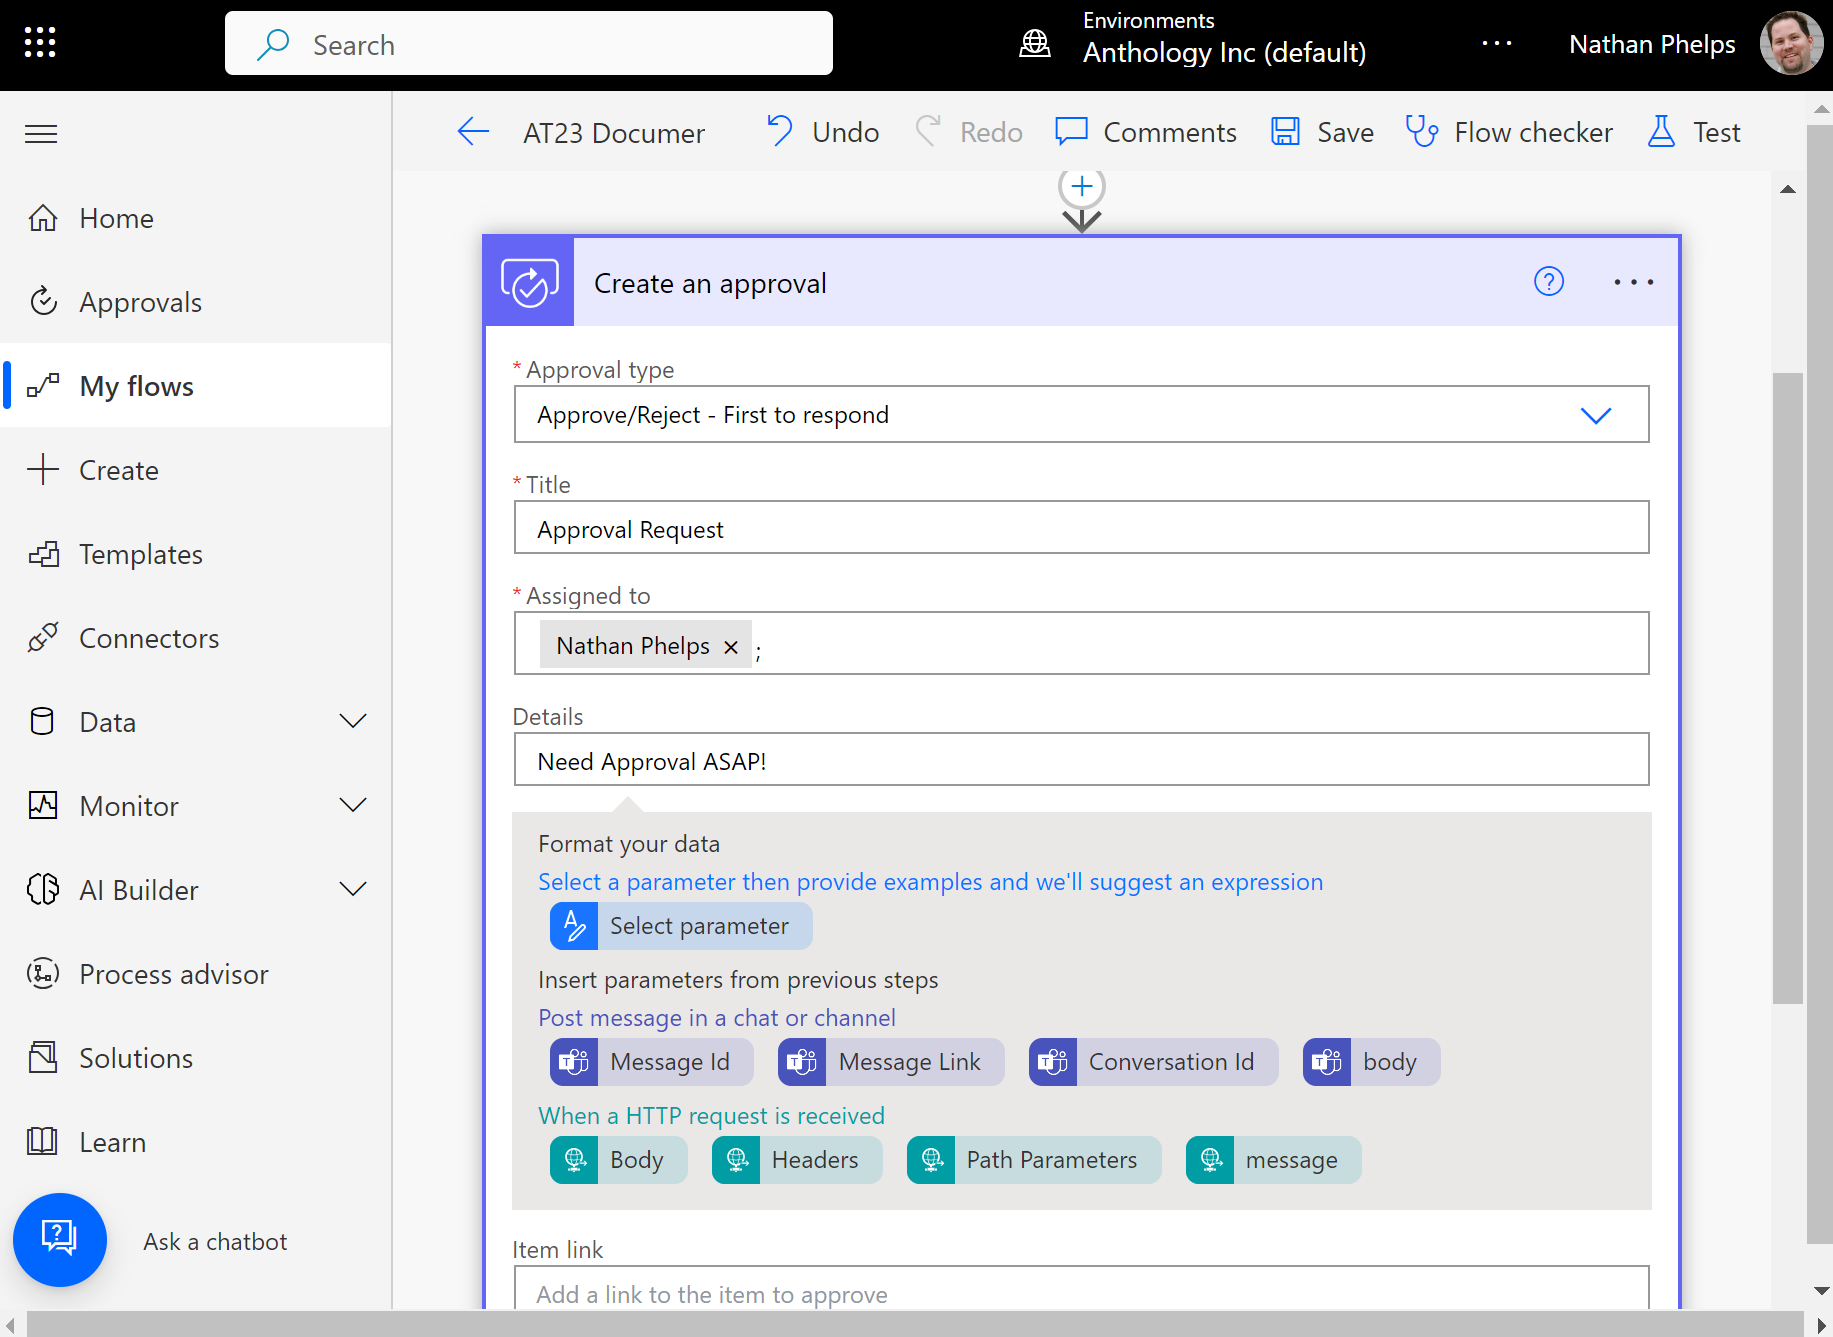
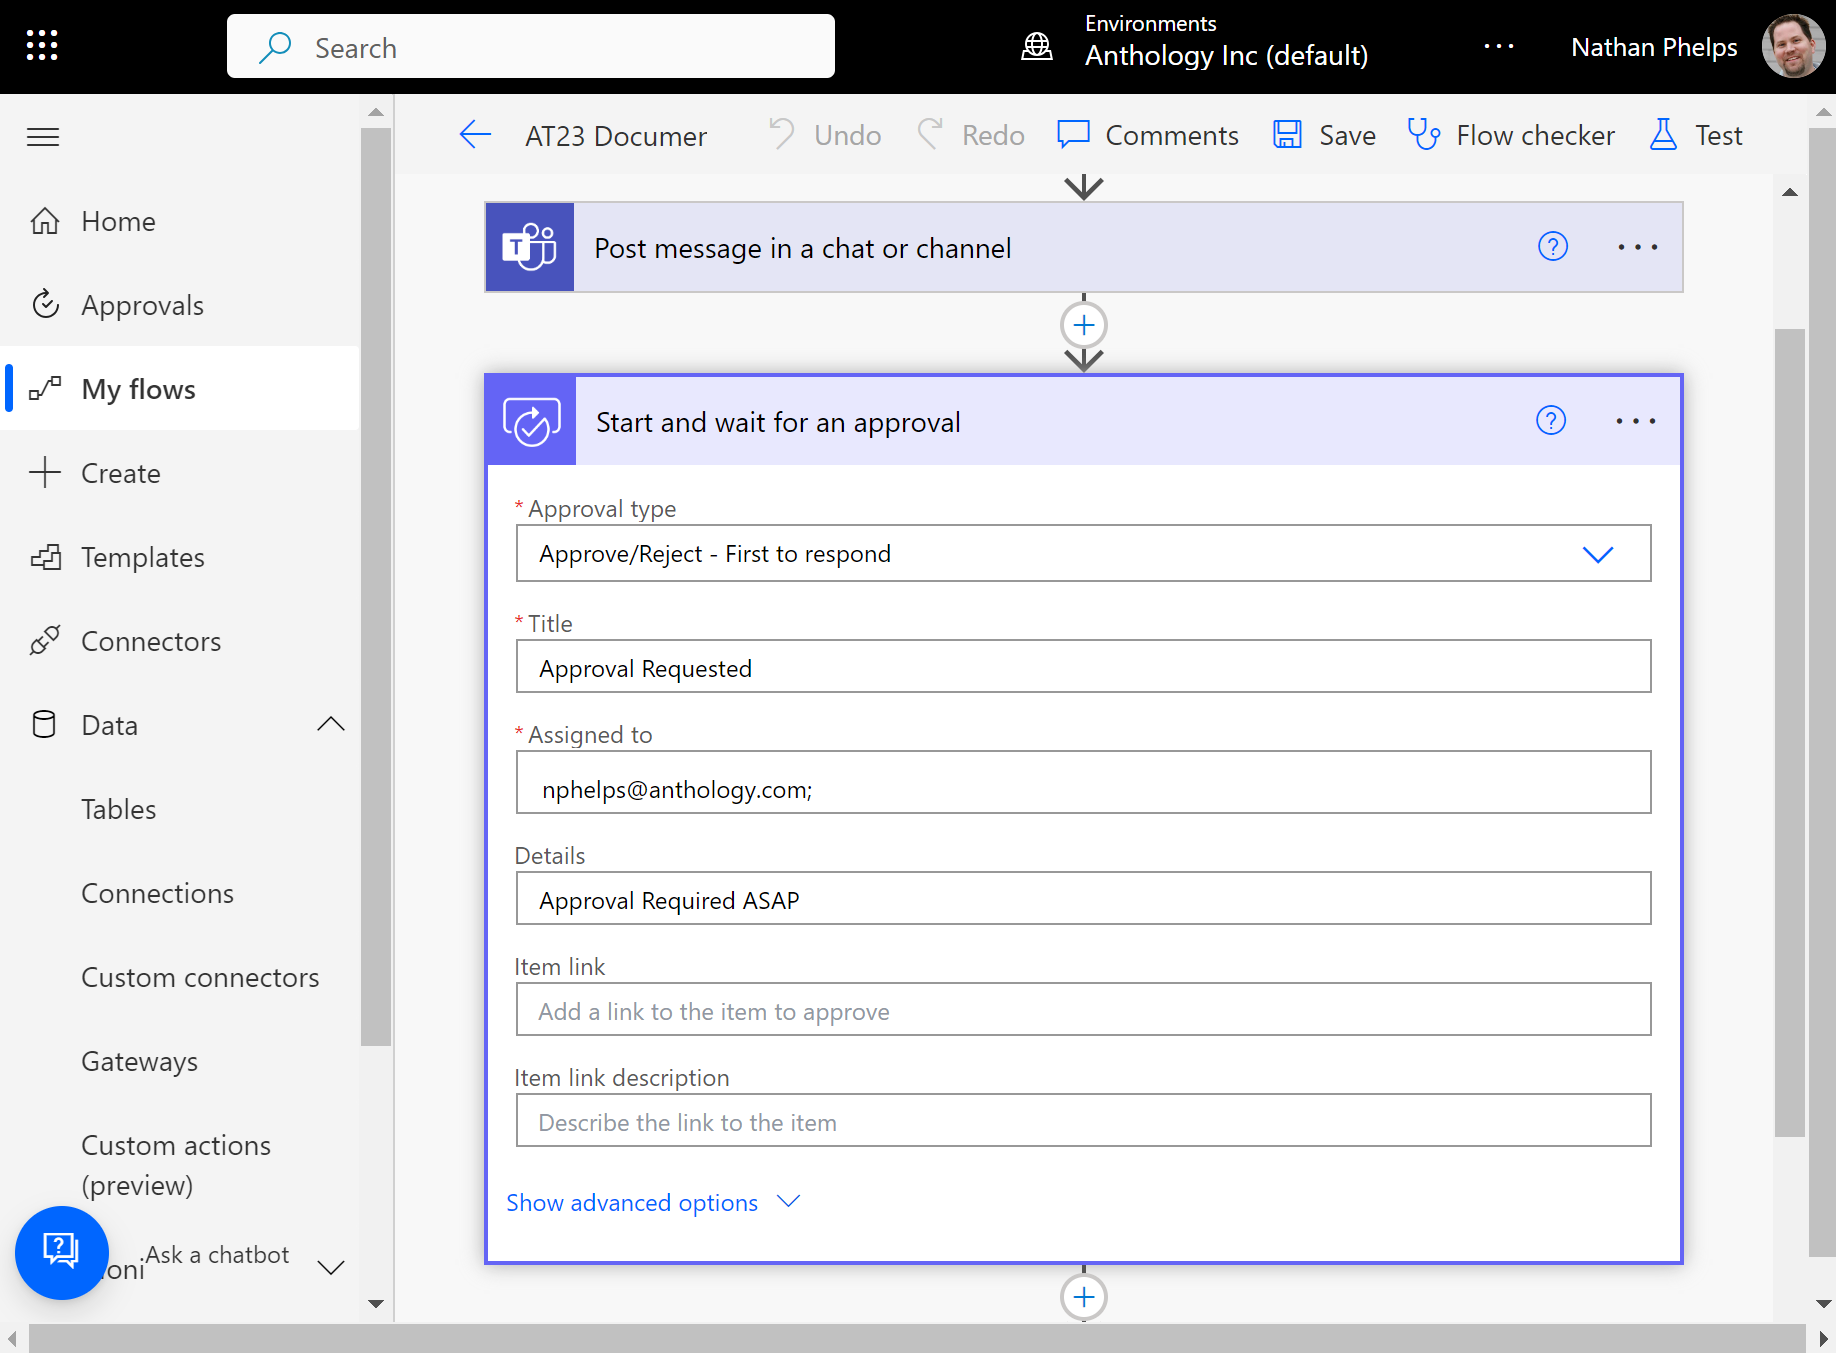
Replace two seperate approvals to single

diff --git a/README.md b/README.md
@@ -111,25 +111,20 @@ Now we are going to add a simple approval to the flow. The idea is to get the ba
 1. Click `Edit` to open the flow in the designer
 2. Click `+ New step` 
 3. Enter `approval` in the search box
-4. Select `Create an approval`
+4. Select `Start and wait for approval`
 
 ![Screenshot of the choose an operation dialog](screenshots/11.png)
+
 5. Select `Approve/Reject - First to respond` in the `Approval type` field
 6. Enter `Approval Request` in the `Title` field
 7. Enter your email address in the `Assigned to` field
 8. Enter `Need Approval ASAP!` in the `Details` field
 
 ![Screenshot of the approval dialog](screenshots/12.png)
-9. Click `+ New step` 
-10. Enter 'approval' in the search box
-11. Select `Wait for approval`
-12. Select `Approval ID` in the `Approval ID` field
 
-![Screenshot of the approval dialog](screenshots/13.png)
-
-13. Test your flow, but this time choose `Automatically` and select `With a recenty used trigger`
-14. Choose the most recently used successful trigger
-15. Check Microsoft Teams for the approval and approve
+9. Test your flow, but this time choose `Automatically` and select `With a recenty used trigger`
+10. Choose the most recently used successful trigger
+11. Check Microsoft Teams for the approval and approve
 
 ![Screenshot of the Teams approval dialog](screenshots/14.png)
 
